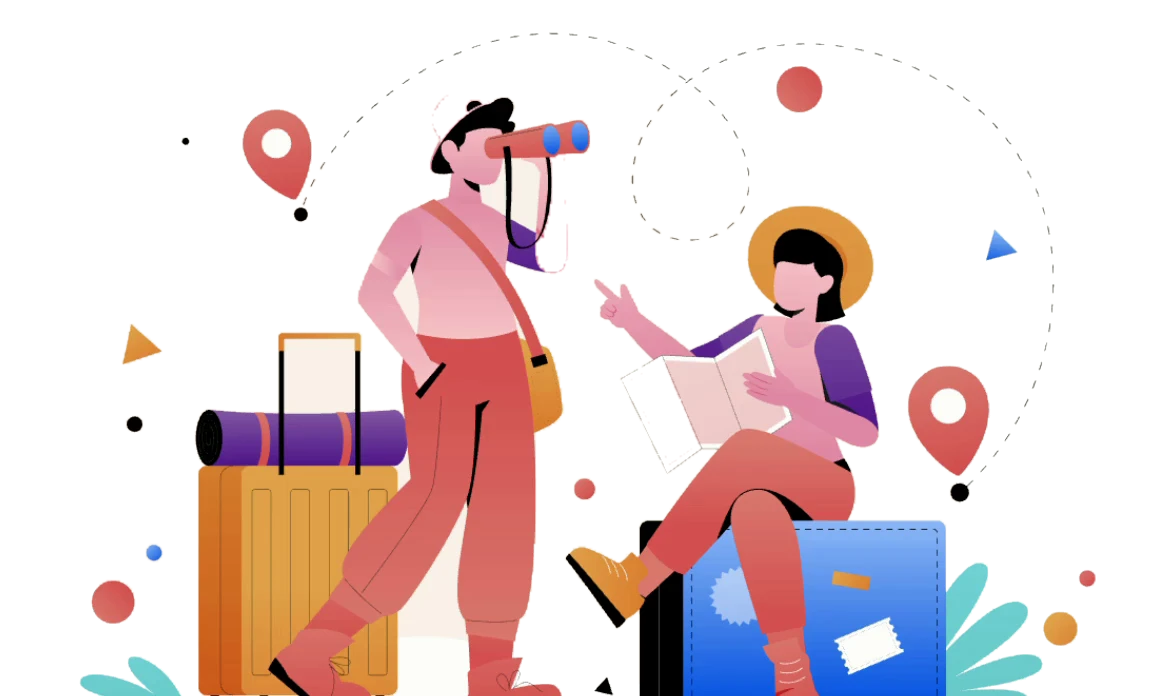
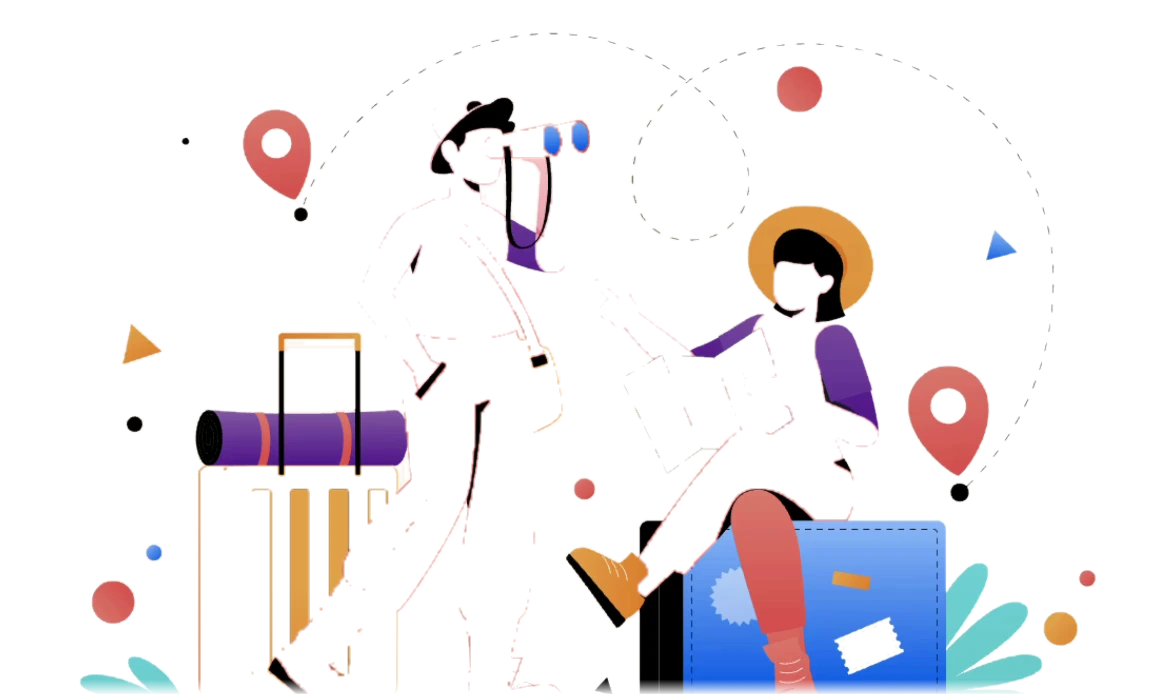
fix(navbar,animation): remove cut-off Su and cargo duplicate in nav, remove white background from travel animation

Changed region(s): [[0.0615, 0.1509, 0.8923, 1.0], [0.4923, 0.3621, 0.7692, 0.875], [0.2462, 0.5733, 0.2769, 0.6034]]

diff --git a/src/components/navigation/NavigationParts.tsx b/src/components/navigation/NavigationParts.tsx
@@ -101,12 +101,6 @@ export interface OtherServiceDropdownItem {
 
 export const OTHER_SERVICES_ITEMS: OtherServiceDropdownItem[] = [
   {
-    label: "Cargo",
-    sub: "cargo",
-    href: "/solutions/cargo",
-    icon: Package,
-  },
-  {
     label: "Air Ticketing",
     sub: "ticketing",
     href: "/solutions/special-services?sub=ticketing",
@@ -187,12 +181,11 @@ export const NAV_ITEMS: NavItem[] = [
   { label: "Meet & Greet", href: "/solutions/concierge" },
   { label: "Lounge", href: "/lounge" },
   { label: "Airports", href: "/airports" },
-  { label: "Cargo", href: "/solutions/cargo" },
   { label: "Transport", href: "/solutions/transport" },
   { label: "Hotel", href: "/solutions/hotels" },
   { label: "Private Charter", href: "/solutions/aviation" },
+  { label: "Cargo", href: "/solutions/cargo" },
   { label: "Other Services", href: "/solutions/special-services" },
-  { label: "Support", href: "/support" },
 ];
 
 export const getItemIcon = (label: string) => {
@@ -455,6 +448,25 @@ export const NavigationMobileDrawer: React.FC<NavigationMobileDrawerProps> = ({
                   </Link>
                 );
               })}
+
+              <Link
+                to="/support"
+                onClick={() => setMobileOpen(false)}
+                className={`flex items-center justify-between py-2.5 px-3 rounded-xl text-sm font-semibold transition-colors ${
+                  isItemActive("/support")
+                    ? "bg-[#0a196f]/10 text-[#0a196f] font-bold"
+                    : "text-slate-800 hover:text-[#0a196f] hover:bg-slate-100/60"
+                }`}
+              >
+                <div className="flex items-center gap-2.5">
+                  <PhoneCall
+                    size={16}
+                    className={isItemActive("/support") ? "text-[#0a196f]" : "text-slate-500"}
+                  />
+                  <span>Support</span>
+                </div>
+                <ArrowRight size={13} className="text-slate-400 shrink-0" />
+              </Link>
             </div>
           </div>
 

diff --git a/src/components/__tests__/Navigation.test.tsx b/src/components/__tests__/Navigation.test.tsx
@@ -25,7 +25,7 @@ vi.mock("@/lib/branding/branding.context", () => ({
 
 describe("Navigation navbar (Direct Individual Links)", () => {
   it("defines NAV_ITEMS in the exact required order with correct routes", () => {
-    expect(NAV_ITEMS).toHaveLength(9);
+    expect(NAV_ITEMS).toHaveLength(8);
 
     expect(NAV_ITEMS[0]).toEqual({
       label: "Meet & Greet",
@@ -40,28 +40,24 @@ describe("Navigation navbar (Direct Individual Links)", () => {
       href: "/airports",
     });
     expect(NAV_ITEMS[3]).toEqual({
-      label: "Cargo",
-      href: "/solutions/cargo",
-    });
-    expect(NAV_ITEMS[4]).toEqual({
       label: "Transport",
       href: "/solutions/transport",
     });
-    expect(NAV_ITEMS[5]).toEqual({
+    expect(NAV_ITEMS[4]).toEqual({
       label: "Hotel",
       href: "/solutions/hotels",
     });
-    expect(NAV_ITEMS[6]).toEqual({
+    expect(NAV_ITEMS[5]).toEqual({
       label: "Private Charter",
       href: "/solutions/aviation",
+    });
+    expect(NAV_ITEMS[6]).toEqual({
+      label: "Cargo",
+      href: "/solutions/cargo",
     });
     expect(NAV_ITEMS[7]).toEqual({
       label: "Other Services",
       href: "/solutions/special-services",
-    });
-    expect(NAV_ITEMS[8]).toEqual({
-      label: "Support",
-      href: "/support",
     });
   });
 
@@ -99,8 +95,8 @@ describe("Navigation navbar (Direct Individual Links)", () => {
 
     expect(html).not.toContain('href="/gallery"');
 
-    expect(html).toContain('href="/support"');
-    expect(html).toContain(">Support</span>");
+    // Desktop navbar keeps only core services to prevent overflow/truncation
+    expect(html).not.toContain('href="/support"');
 
     // Right-side items
     expect(html).toContain("+91 9599087959");

diff --git a/src/components/home/booking/BookingPanel.tsx b/src/components/home/booking/BookingPanel.tsx
@@ -421,15 +421,16 @@ export function BookingPanel({ showSideAnimation = false }: BookingPanelProps) {
             transition={{ duration: 0.65, ease: [0.16, 1, 0.3, 1] }}
             className="absolute -top-4 left-2 sm:-top-5 sm:left-4 md:-top-6 md:left-6 lg:-top-8 lg:left-8 w-24 sm:w-36 md:w-44 lg:w-48 z-30 pointer-events-none select-none"
           >
-            <div className="relative w-full h-auto">
-              <picture>
+            <div className="relative w-full h-auto mix-blend-multiply">
+              <picture className="mix-blend-multiply">
                 <source srcSet="/videos/travel-animation.webp" type="image/webp" />
                 <img
                   src="/videos/travel-animation.webp"
                   alt="Shafsky Aviation travel concierge animation"
                   width={1170}
                   height={696}
-                  className="w-full h-auto object-contain select-none pointer-events-none block"
+                  className="w-full h-auto object-contain select-none pointer-events-none block mix-blend-multiply"
+                  style={{ mixBlendMode: "multiply" }}
                   loading="eager"
                   decoding="async"
                 />
